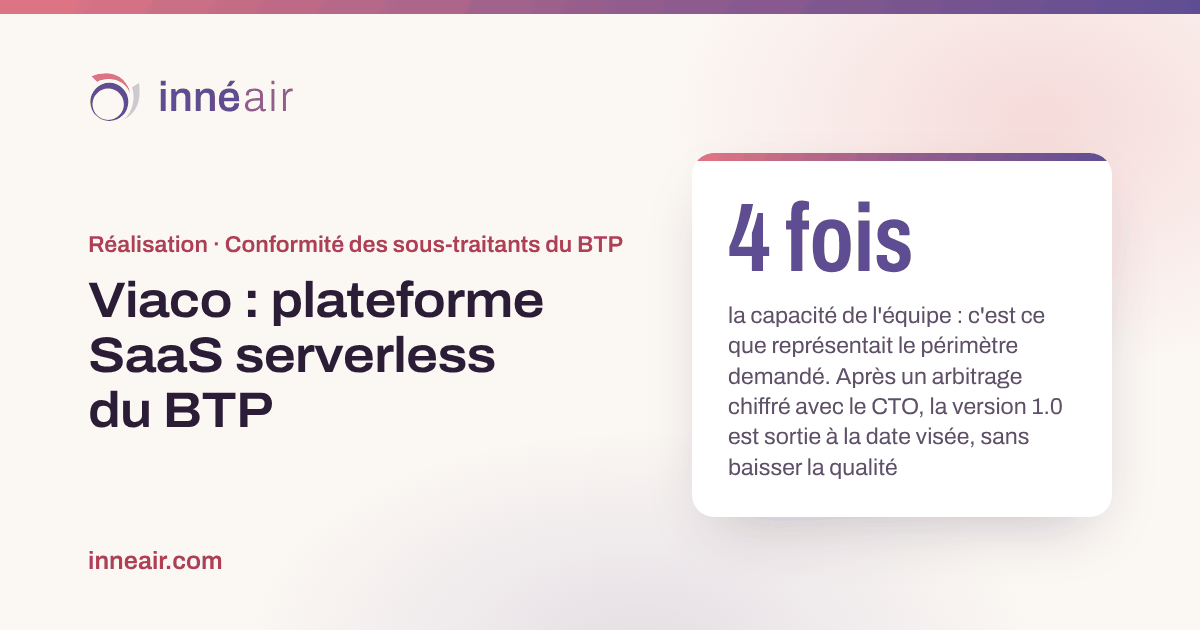
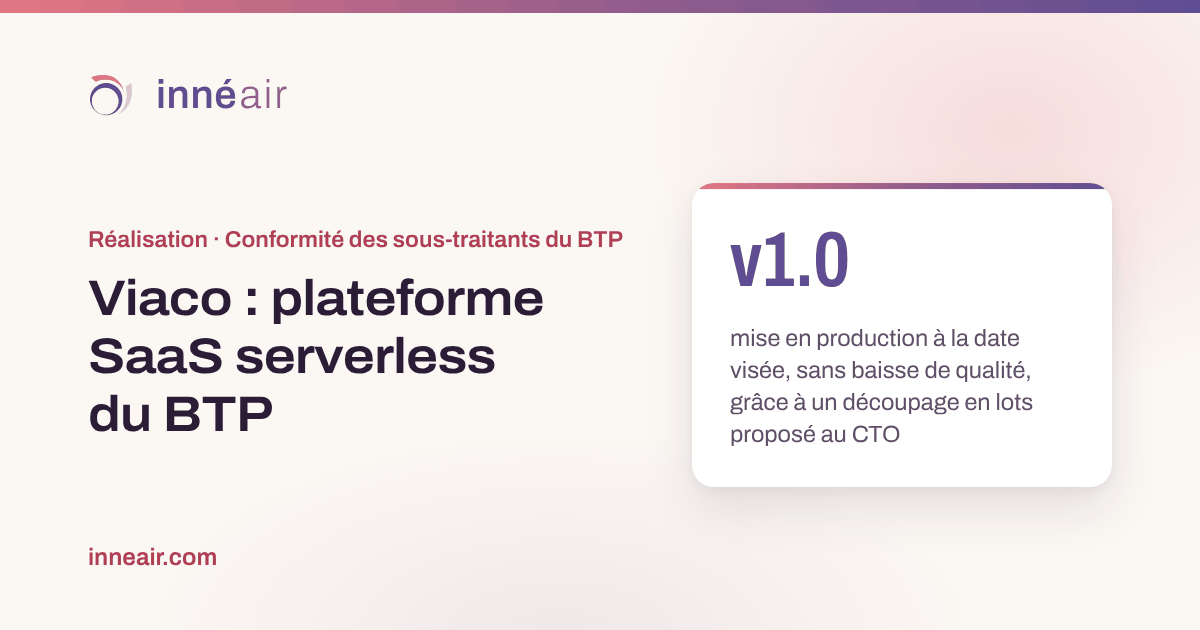
feat: align the Viaco case with the corrected valorisation
- Role: tech lead and Scrum Master leading the team, running technical interviews
  and production releases; arbitration proposed to and accepted by the CTO.
- API v2, test coverage effort and Elasticsearch removal piloted by Innéair;
  Sapin 2 / CSR analysis and CSR score added.
- Figures recounted: 27 → 17 Lambda functions, 8 email templates replaced.
- The "4x capacity" figure is no longer put forward; cards now show v1.0 on the
  target date, 27 → 17 functions to deploy and configure, and 47 → 83 % coverage.
- New preview image built on the same layout as the other case pages.

Claude-Session: https://claude.ai/code/session_01AzLCSSsoxGkjDysbMUSmbQ

diff --git a/realisations/viaco-plateforme-saas-btp.html b/realisations/viaco-plateforme-saas-btp.html
@@ -15,7 +15,7 @@
 	<meta property="og:image" content="https://inneair.com/images/og/viaco.png">
 	<meta property="og:image:width" content="1200">
 	<meta property="og:image:height" content="630">
-	<meta property="og:image:alt" content="Viaco : un périmètre de 4 fois la capacité de l&#x27;équipe, et la version 1.0 sortie à la date visée">
+	<meta property="og:image:alt" content="Viaco : la version 1.0 mise en production à la date visée, sans baisse de qualité, grâce à un découpage en lots proposé au CTO">
 	<meta name="twitter:card" content="summary_large_image">
 	<link rel="preload" href="/assets/fonts/archivo-latin.woff2" as="font" type="font/woff2" crossorigin>
 	<link rel="stylesheet" href="/assets/css/main.css">
@@ -87,7 +87,7 @@
 				</nav>
 				<p class="projet-titre__secteur">Conformité des sous-traitants du BTP, 2020 à 2021</p>
 				<h1>Viaco : une plateforme SaaS serverless du BTP menée jusqu'à sa version 1.0</h1>
-				<p class="projet-titre__chapo">Viaco, aujourd'hui une marque du groupe Once For All, numérise deux outils du chantier&nbsp;: la pré-qualification des sous-traitants et le panneau de chantier. Pendant quatorze mois, Innéair a encadré son équipe de développement&nbsp;: elle a restructuré l'API serverless de la plateforme, installé les tests et le processus de livraison, et mené l'équipe jusqu'à la version 1.0.</p>
+				<p class="projet-titre__chapo">Viaco, aujourd'hui une marque du groupe Once For All, numérise deux outils du chantier&nbsp;: la pré-qualification des sous-traitants et le panneau de chantier. Pendant quatorze mois, Innéair a dirigé son équipe de développement comme tech lead et Scrum Master&nbsp;: elle a restructuré l'API serverless de la plateforme, changé sa stratégie de tests, écrit son processus de livraison et mené l'équipe jusqu'à la version 1.0.</p>
 			</div>
 		</div>
 
@@ -96,7 +96,7 @@
 			<dl class="fiche">
 				<div><dt>Client</dt><dd>Viaco, plateforme SaaS B2B pour les donneurs d'ordre et les prestataires du BTP</dd></div>
 				<div><dt>Plateforme</dt><dd>Un questionnaire de conformité (loi Sapin 2, RSE) rempli une fois par chaque prestataire et pré-rempli à partir des données légales de son entreprise&nbsp;; un panneau de chantier consultable par QR code</dd></div>
-				<div><dt>Intervention d'Innéair</dt><dd>Encadrement de l'équipe de développement et rôle de Scrum Master, restructuration de l'API, tests et processus de livraison</dd></div>
+				<div><dt>Intervention d'Innéair</dt><dd>Tech lead et Scrum Master de l'équipe de développement, restructuration de l'API, stratégie de tests et processus de livraison</dd></div>
 				<div class="fiche__large"><dt>Technologies</dt><dd><ul class="technos">
 					<li><span>Services</span> Node.js, TypeScript, Serverless Framework</li>
 					<li><span>AWS</span> Lambda, API Gateway, SQS, S3</li>
@@ -111,44 +111,43 @@
 					<h2>Piloter l'équipe et tenir une date</h2>
 					<aside class="encart" aria-label="À retenir">
 						<p><strong>v1.0</strong>mise en production à la date visée</p>
-						<p><strong>4 fois</strong>la capacité de l'équipe&nbsp;: c'est ce que représentait le périmètre demandé</p>
 					</aside>
 					<div class="etape__texte">
-						<p>Innéair a rejoint Viaco en mai 2020 pour encadrer une équipe de quatre à cinq développeurs, sous la responsabilité du CTO, et tenir le rôle de Scrum Master. Elle animait les revues de sprint et les rétrospectives, et elle a écrit le processus de livraison de l'équipe&nbsp;: chaque mise en production passe par une copie de la production, suit un ordre de déploiement fixe et publie un changelog. Avant chaque chantier structurant, Innéair rédigeait une étude comparative, par exemple pour choisir entre une nouvelle version de l'API à côté de l'ancienne et une migration en place.</p>
-						<p>En mars 2021, Viaco attendait une nouvelle version pour convaincre plusieurs grands groupes du BTP, et le périmètre demandé représentait plus de quatre fois la capacité de l'équipe. <strong>Innéair a mesuré la vélocité réelle de l'équipe</strong>, posé les leviers possibles et préparé l'arbitrage avec le CTO&nbsp;: aucune baisse de qualité, un découpage en lots et une date tenable. La version 1.0 est partie en production à la date visée, le 8 avril 2021.</p>
+						<p>Innéair a rejoint Viaco en mai 2020 comme tech lead et Scrum Master, sous la responsabilité du CTO. Elle dirigeait une équipe de quatre à cinq développeurs&nbsp;: elle concevait avec eux, relisait et validait leur travail, et menait les entretiens techniques de recrutement. Elle tenait les revues de sprint et animait les rétrospectives. Elle a écrit le processus de livraison de l'équipe et réalisait les mises en production&nbsp;: chacune passe par une copie de la production, suit un ordre de déploiement fixe et publie un changelog. Avant chaque chantier structurant, Innéair rédigeait une étude comparative, par exemple pour choisir entre une nouvelle version de l'API à côté de l'ancienne et une migration en place.</p>
+						<p>En mars 2021, Viaco attendait une nouvelle version pour convaincre plusieurs grands groupes du BTP, et le périmètre demandé dépassait ce que l'équipe pouvait livrer à la date voulue. <strong>Innéair a mesuré la vélocité réelle de l'équipe</strong>, posé les leviers possibles et proposé au CTO un arbitrage, qu'il a accepté&nbsp;: aucune baisse de qualité, un découpage en lots et une date tenable. Innéair a mis la version 1.0 en production à la date visée, le 8 avril 2021.</p>
 					</div>
 				</section>
 
 				<section class="etape">
 					<h2>Restructurer l'API serverless</h2>
 					<aside class="encart" aria-label="À retenir">
-						<p><strong>28&nbsp;→&nbsp;17</strong>fonctions Lambda, regroupées par ressource pour limiter les démarrages à froid</p>
+						<p><strong>27&nbsp;→&nbsp;17</strong>fonctions Lambda, regroupées par ressource pour limiter les démarrages à froid</p>
 					</aside>
 					<div class="etape__texte">
-						<p>La plateforme existait depuis 2019&nbsp;: une API serverless sur AWS, une application React et un back-office. En juillet 2020, <strong>Innéair a séparé les handlers HTTP des services métier</strong>, centralisé la gestion des erreurs et regroupé les fonctions par ressource, pour limiter les démarrages à froid et le nombre de fonctions à déployer. L'API est passée de 28 à 17 fonctions Lambda, et deux décisions d'architecture écrites expliquent la séparation et le regroupement.</p>
-						<p>En 2021, l'équipe a construit la nouvelle version de l'API. Innéair y a écrit la nouvelle API des pré-qualifications et la création directe de partenariats entre donneurs d'ordre et prestataires.</p>
+						<p>La plateforme existait depuis 2019&nbsp;: une API serverless sur AWS, une application React et un back-office. En juillet 2020, <strong>Innéair a séparé les handlers HTTP des services métier</strong>, centralisé la gestion des erreurs et regroupé les fonctions par ressource, pour limiter les démarrages à froid et le nombre de fonctions à déployer. L'API est passée de 27 à 17 fonctions Lambda, et deux décisions d'architecture écrites expliquent la séparation et le regroupement.</p>
+						<p>En 2021, Innéair a piloté la nouvelle version de l'API, de son router aux partenariats entre donneurs d'ordre et prestataires, et y a livré la nouvelle API des pré-qualifications et la création directe de partenariats. Elle a aussi piloté l'analyse des questionnaires au regard de la loi Sapin 2 et de la RSE, ainsi que leur pré-remplissage à partir des données légales, et conçu la note RSE.</p>
 					</div>
 				</section>
 
 				<section class="etape">
 					<h2>Tester l'API sans dépendre de l'extérieur</h2>
 					<aside class="encart" aria-label="À retenir">
-						<p><strong>47&nbsp;→&nbsp;83&nbsp;%</strong>de couverture des tests de l'API par l'équipe, de juin 2020 à juillet 2021</p>
+						<p><strong>47&nbsp;→&nbsp;83&nbsp;%</strong>de couverture des tests de l'API, de juin 2020 à juillet 2021</p>
 					</aside>
 					<div class="etape__texte">
 						<p>Innéair a d'abord publié le rapport de couverture dans la chaîne d'intégration continue. Début 2021, elle a changé la stratégie de tests de l'API&nbsp;: <strong>les scénarios appellent les fonctions comme le ferait API Gateway</strong>, sur une base en mémoire, avec les services externes simulés. Ils ne dépendent plus de la base de développement partagée, et le changement a fait apparaître des écarts entre le modèle de données et la base, aussitôt corrigés.</p>
-						<p>Sur la durée de la mission, la couverture des tests de l'équipe est passée de 47&nbsp;% à 83&nbsp;%.</p>
+						<p>Sur toute la mission, Innéair a piloté l'effort de l'équipe&nbsp;: la couverture des tests de l'API est passée de 47&nbsp;% à 83&nbsp;%.</p>
 					</div>
 				</section>
 
 				<section class="etape">
 					<h2>Des traitements asynchrones réutilisables</h2>
 					<aside class="encart" aria-label="À retenir">
-						<p><strong>11&nbsp;gabarits</strong>d'e-mails remplacés par des blocs composables, en français et en anglais</p>
+						<p><strong>8&nbsp;gabarits</strong>d'e-mails remplacés par des blocs composables, en français et en anglais</p>
 					</aside>
 					<div class="etape__texte">
 						<p>En 2021, <strong>Innéair a conçu les traitements asynchrones de la nouvelle version de l'API</strong>. Une demande d'export part dans une file SQS, le fichier est déposé sur S3 et l'utilisateur reçoit une notification. Les relances groupées ne rejouent que les messages en échec, et quatre consumers copiés reposent désormais sur une base commune.</p>
-						<p>Innéair a aussi refondu le service d'e-mails&nbsp;: des blocs composables, en français et en anglais, ont remplacé onze gabarits HTML complets.</p>
+						<p>Innéair a aussi refondu le service d'e-mails&nbsp;: des blocs composables, en français et en anglais, ont remplacé huit gabarits HTML complets.</p>
 					</div>
 				</section>
 
@@ -158,7 +157,7 @@
 						<p><strong>2&nbsp;commandes</strong>et Docker pour installer un poste de développement</p>
 					</aside>
 					<div class="etape__texte">
-						<p>Dès ses deux premières semaines, Innéair a outillé le poste de travail&nbsp;: son installation ne demande plus que Docker et deux commandes. Elle a aussi écrit la première décision d'architecture de l'équipe, celle qui décide de tracer les suivantes, puis la plupart de celles qui ont suivi. Elle a monté les versions de React, de Node.js, de Sequelize et de Serverless Framework, et achevé le retrait d'Elasticsearch, un service de moins à faire tourner.</p>
+						<p>Dès ses deux premières semaines, Innéair a outillé le poste de travail&nbsp;: son installation ne demande plus que Docker et deux commandes. Elle a aussi écrit la première décision d'architecture de l'équipe, celle qui décide de tracer les suivantes, puis la plupart de celles qui ont suivi. Elle a monté les versions de React, de Node.js, de Sequelize et de Serverless Framework, et piloté le retrait d'Elasticsearch, un service de moins à faire tourner.</p>
 						<p>À la fin de la mission, <strong>Innéair a passé le relais à un développeur de l'équipe</strong> et l'a accompagné&nbsp;: les décisions d'architecture, le processus de livraison et les études techniques étaient écrits et datés.</p>
 					</div>
 				</section>

diff --git a/realisations/index.html b/realisations/index.html
@@ -164,8 +164,9 @@
 						<h3>Viaco</h3>
 						<p>Innéair a restructuré l'API serverless de Viaco, plateforme SaaS de pré-qualification des sous-traitants du BTP, et mené son équipe jusqu'à la version 1.0. Viaco fait aujourd'hui partie du groupe Once For All.</p>
 						<ul class="case__measures">
-							<li><strong>4 fois</strong> la capacité de l'équipe&nbsp;: c'est ce que représentait le périmètre de la version 1.0, sortie à la date visée</li>
-							<li><strong>47&nbsp;→&nbsp;83&nbsp;%</strong> Couverture des tests de l'API, par l'équipe</li>
+							<li><strong>v1.0</strong> mise en production à la date visée, grâce à un découpage en lots proposé au CTO</li>
+							<li><strong>27&nbsp;→&nbsp;17</strong> Fonctions Lambda à déployer et à configurer</li>
+							<li><strong>47&nbsp;→&nbsp;83&nbsp;%</strong> Couverture des tests de l'API</li>
 						</ul>
 						<p class="case__tags">Node.js, TypeScript, AWS Lambda, SQS, React</p>
 						<p class="case__more"><a class="text-link text-link--onDark" href="/realisations/viaco-plateforme-saas-btp.html">Lire le projet Viaco</a></p>

diff --git a/index.html b/index.html
@@ -341,8 +341,9 @@
 						<h3>Viaco</h3>
 						<p>Innéair a restructuré l'API serverless de Viaco, plateforme SaaS de pré-qualification des sous-traitants du BTP, et mené son équipe jusqu'à la version 1.0. Viaco fait aujourd'hui partie du groupe Once For All.</p>
 						<ul class="case__measures">
-							<li><strong>4 fois</strong> la capacité de l'équipe&nbsp;: c'est ce que représentait le périmètre de la version 1.0, sortie à la date visée</li>
-							<li><strong>47&nbsp;→&nbsp;83&nbsp;%</strong> Couverture des tests de l'API, par l'équipe</li>
+							<li><strong>v1.0</strong> mise en production à la date visée, grâce à un découpage en lots proposé au CTO</li>
+							<li><strong>27&nbsp;→&nbsp;17</strong> Fonctions Lambda à déployer et à configurer</li>
+							<li><strong>47&nbsp;→&nbsp;83&nbsp;%</strong> Couverture des tests de l'API</li>
 						</ul>
 						<p class="case__more"><a class="text-link text-link--onDark" href="/realisations/viaco-plateforme-saas-btp.html">Lire le projet Viaco</a></p>
 					</article>
